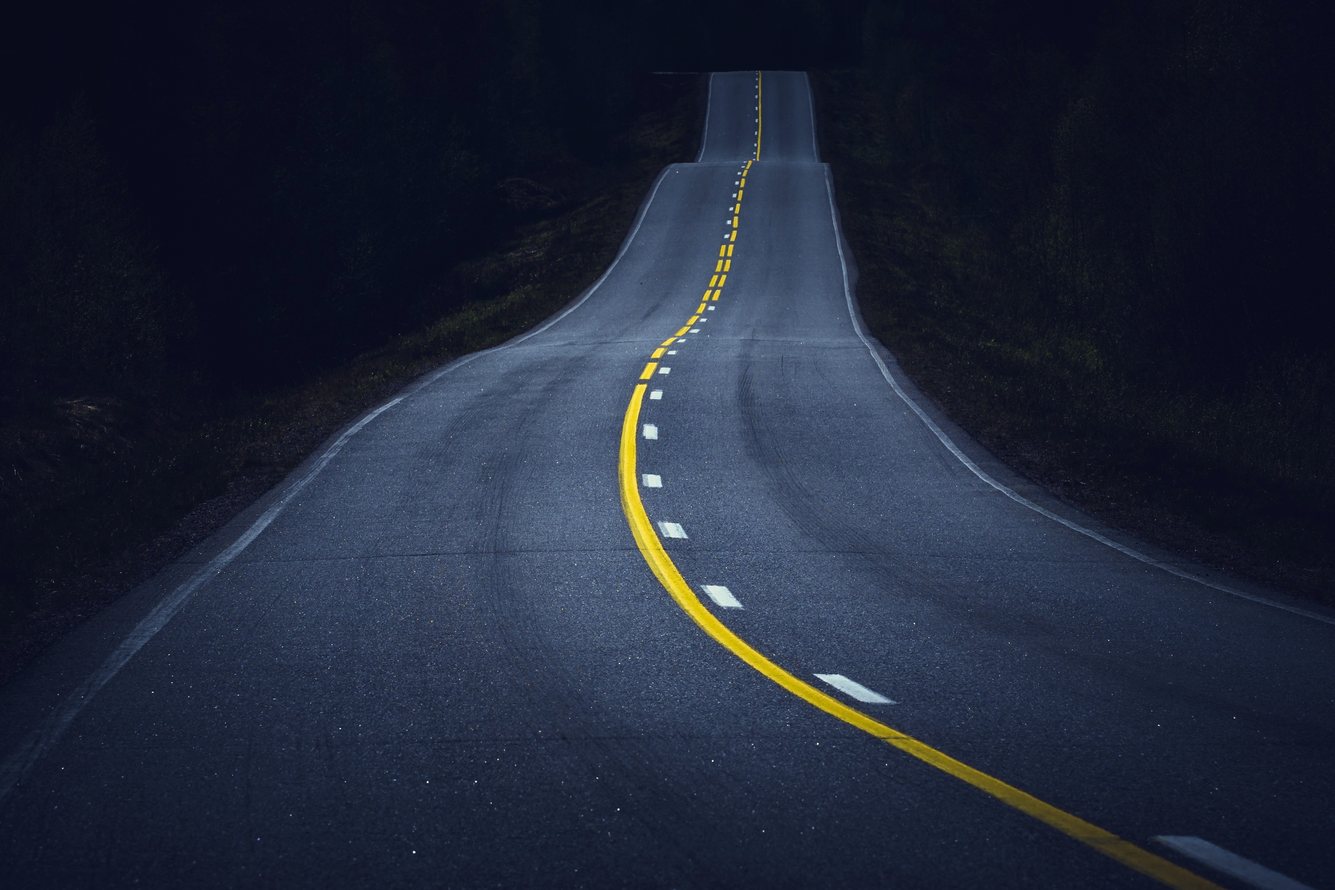
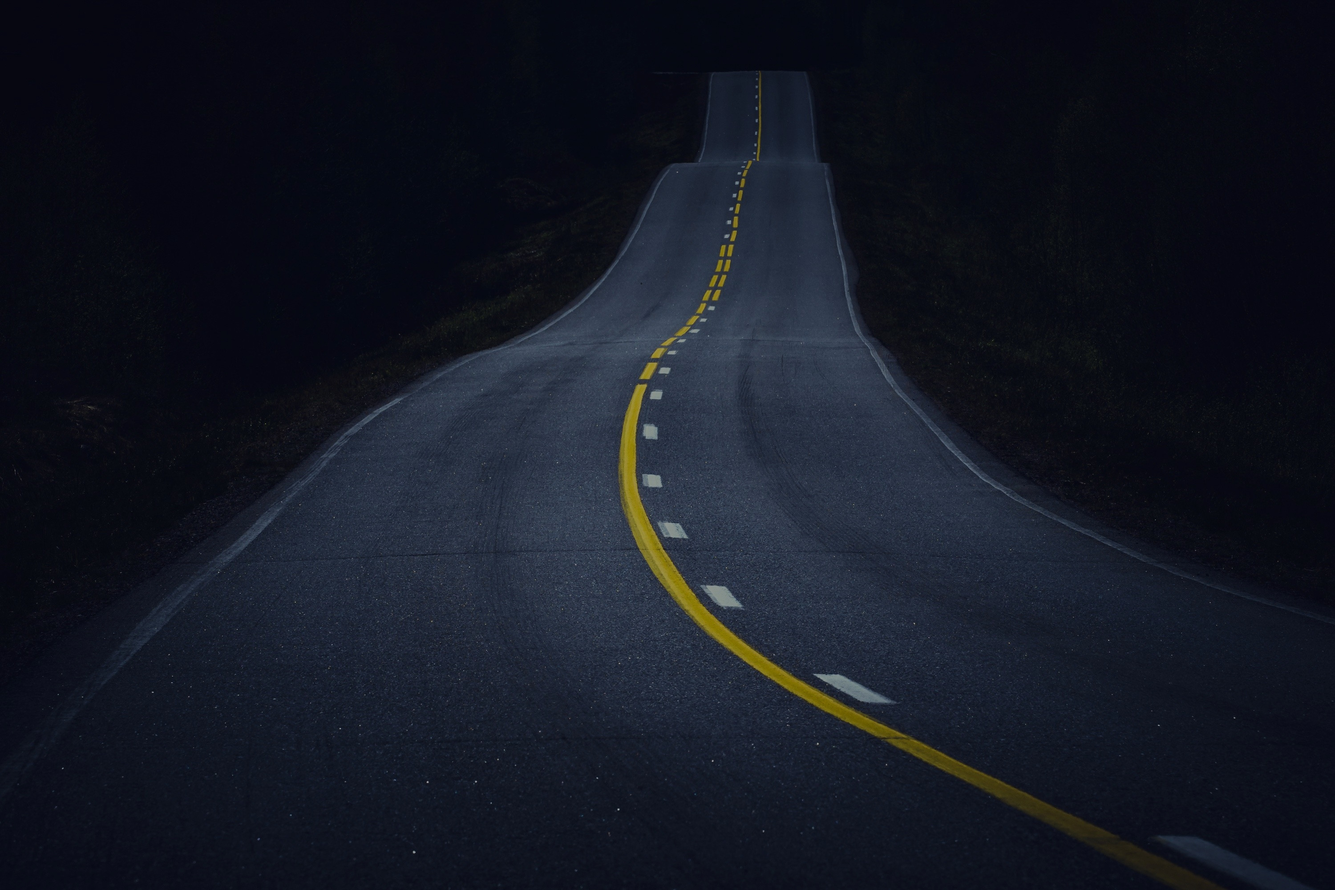
v1.1

diff --git a/assets/css/style.css b/assets/css/style.css
@@ -14,7 +14,6 @@ body {
 	background-image: url('../img/background.jpg') ;
 	/*background:linear-gradient(rgba(12, 12, 12, 0.5), rgba(37, 37, 37, 0.5)), url('../img/background.jpg');
 	*/
-	filter:brightness(80%);
 	background-repeat: no-repeat;
 	background-size: cover;
 	width: 100%;
@@ -36,11 +35,11 @@ p {
 
 }
 
-.images {
+.logo {
     width: 14em;
 }
 
-.images img {
+.logo img {
     width: 100%;
     height: auto;
 }
@@ -50,4 +49,13 @@ p {
     align-self: auto;
     align-items: center;
     justify-content: center;
+}
+
+.image_car {
+    width: 18em;
+}
+
+.image_car img {
+    width: 100%;
+    height: auto;
 }

diff --git a/index.php b/index.php
@@ -17,12 +17,12 @@
         
         $n = 6;
         
-        echo "<div class='images header'><img src=".$manufacturer_logo[0]."></div>";
+        echo "<div class='logo header'><img src=".$manufacturer_logo[0]."></div>";
         echo "<p class='header'>".$manufacturer." ".$car[0]."</p>";
 
         //print the first element of the array (Agera R)
-        for($i = 0; $i <= $n; $i++) {
-            echo "<div class='images'>
+        for($i = 0; $i <= $n-1; $i++) {
+            echo "<div class='image_car'>
                     <img src='$car_img[0]'>
                   </div>" . "<br>";
         }
